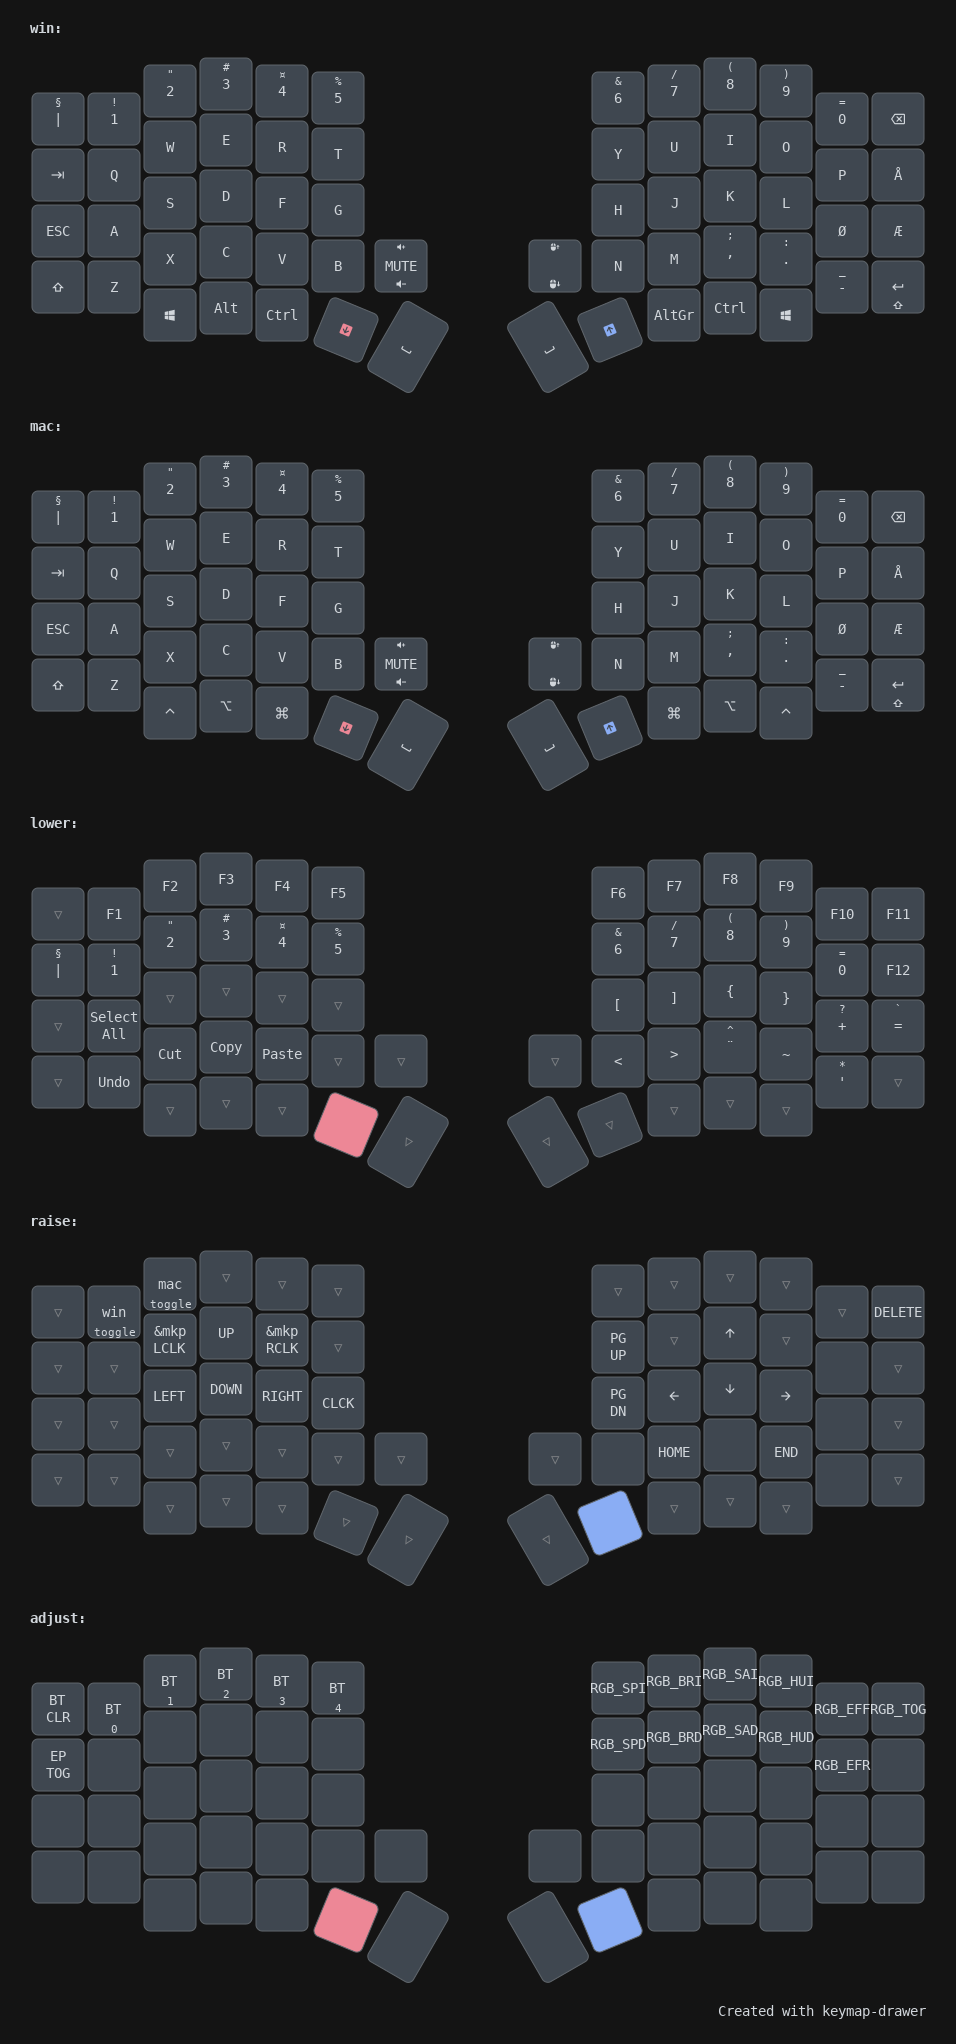
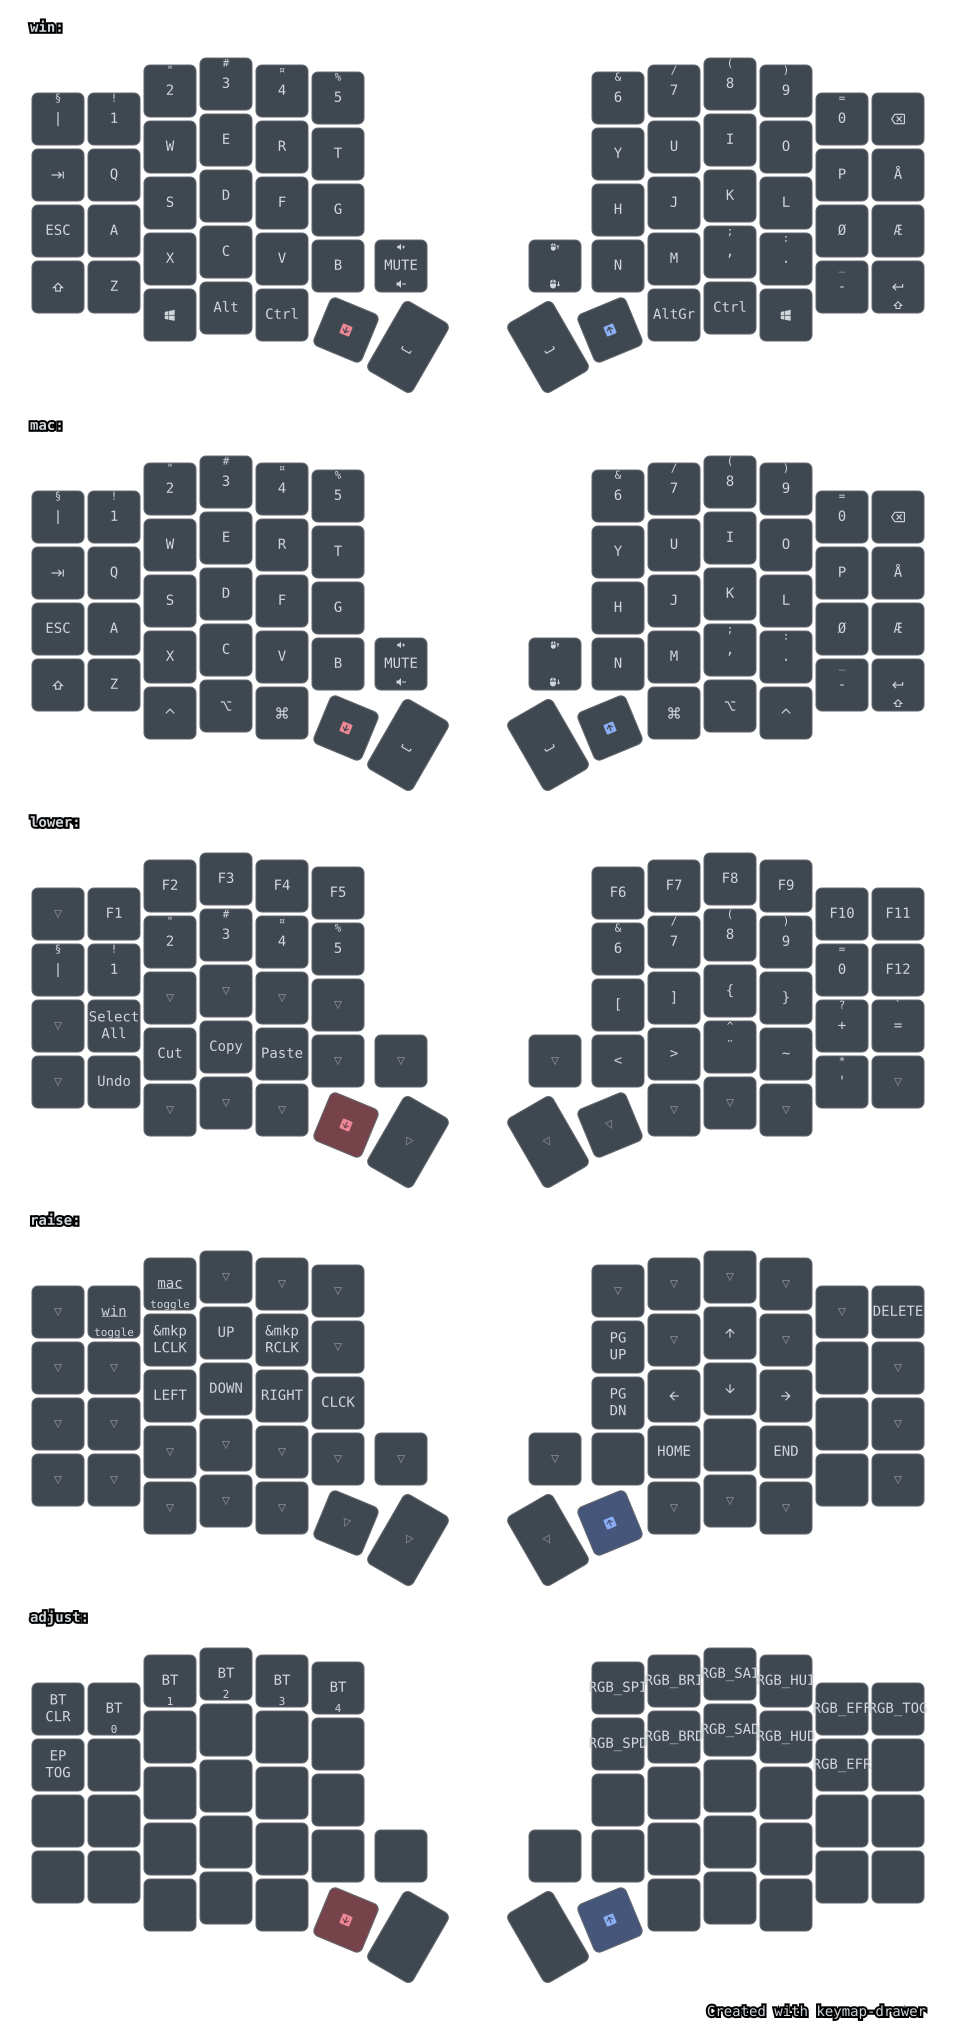
add README, update keymap-drawer

diff --git a/README.md b/README.md
@@ -1,0 +1,10 @@
+
+# Sofle RGB v2.1
+![alt text](keymap-drawer/sofle.svg)
+
+## Resources
+- [Build Guide](https://josefadamcik.github.io/SofleKeyboard/build_guide_rgb.html)
+- [ZMK](https://zmk.dev/)
+- [ZMK Studio](https://zmk.studio/)
+- [keymap-editor](https://nickcoutsos.github.io/keymap-editor/)
+- [keymap-drawer](https://keymap-drawer.streamlit.app/)
